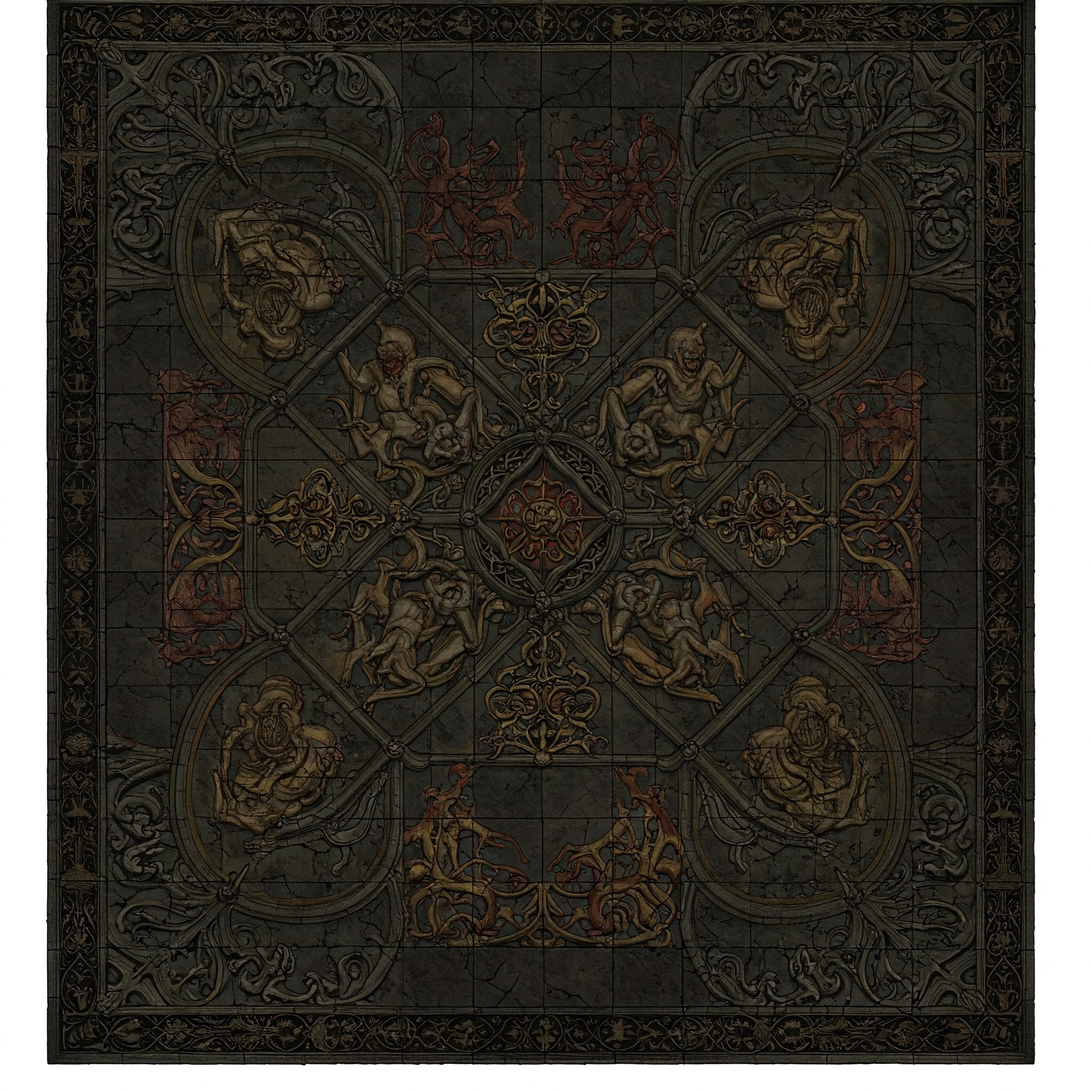
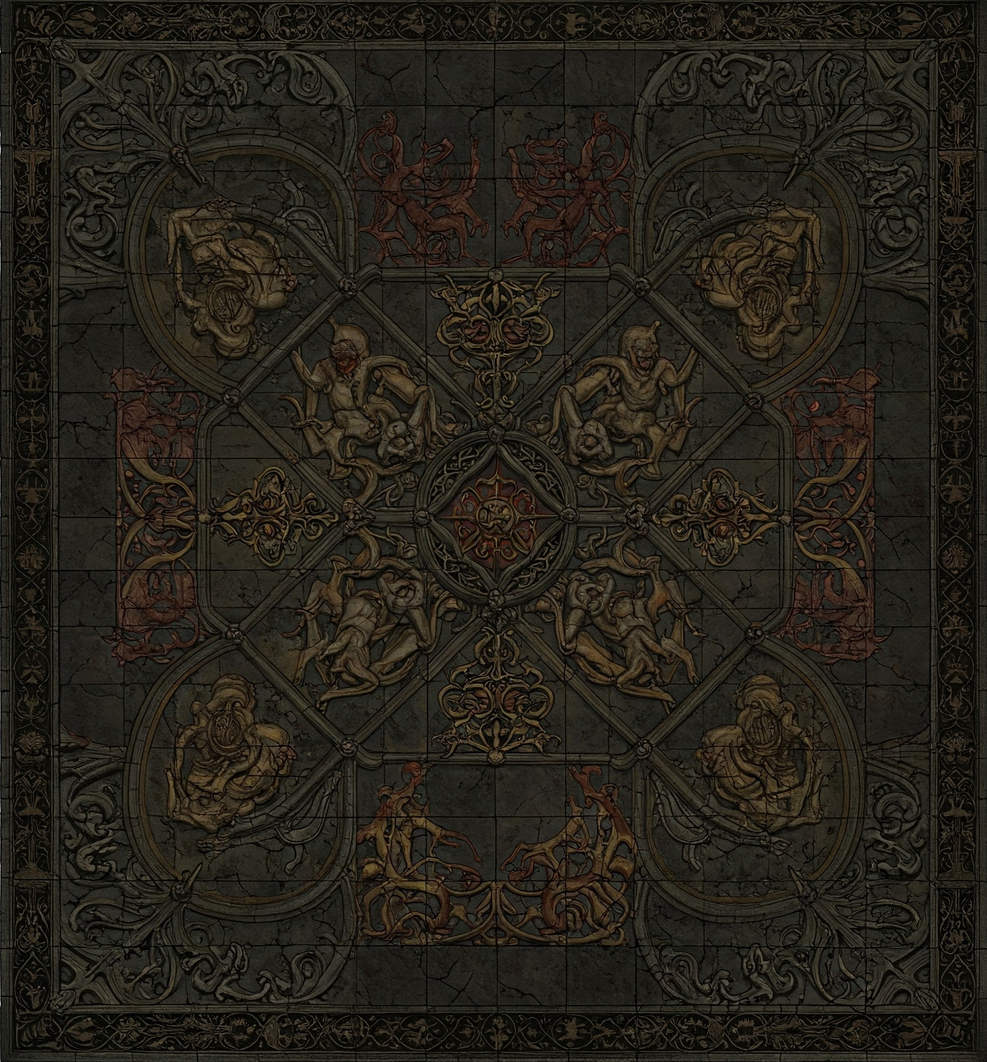
fix background image for room 5,6

diff --git a/Packages/Rooms/RoomParser.cs b/Packages/Rooms/RoomParser.cs
@@ -37,8 +37,26 @@ namespace Project.Rooms
                                       new Rectangle(x * gr.TileWidth,
                                         (y - 1) * gr.TileHeight, gr.TileWidth, gr.TileHeight));
                     break;
-                case "GreenBackGround":
-                    result = SolidBlockFactory.Instance.GreenBg();
+                case "room1":
+                    result = SolidBlockFactory.Instance.room1Background();
+                    break;
+                case "room2":
+                    result = SolidBlockFactory.Instance.room2Background();
+                    break;
+                case "room3":
+                    result = SolidBlockFactory.Instance.room3Background();
+                    break;
+                case "room4":
+                    result = SolidBlockFactory.Instance.room4Background();
+                    break;
+                case "room5":
+                    result = SolidBlockFactory.Instance.room5Background();
+                    break;
+                case "room6":
+                    result = SolidBlockFactory.Instance.room6Background();
+                    break;
+                case "room7":
+                    result = SolidBlockFactory.Instance.room7Background();
                     break;
                 case "bossBackground":
                     result = SolidBlockFactory.Instance.boosBackground();
@@ -94,8 +112,26 @@ namespace Project.Rooms
                         case "boss":
                             Background = AddBlockToRoom(x, y, gr, tileWidth, tileHeight, "bossBackground");
                             break;
-                        case "gr":
-                            Background = AddBlockToRoom(x, y, gr, tileWidth, tileHeight, "GreenBackGround");
+                        case "room1":
+                            Background = AddBlockToRoom(x, y, gr, tileWidth, tileHeight, "room1");
+                            break;
+                        case "room2":
+                            Background = AddBlockToRoom(x, y, gr, tileWidth, tileHeight, "room2");
+                            break;
+                        case "room3":
+                            Background = AddBlockToRoom(x, y, gr, tileWidth, tileHeight, "room3");
+                            break;
+                        case "room4":
+                            Background = AddBlockToRoom(x, y, gr, tileWidth, tileHeight, "room4");
+                            break;
+                        case "room5":
+                            Background = AddBlockToRoom(x, y, gr, tileWidth, tileHeight, "room5");
+                            break;
+                        case "room6":
+                            Background = AddBlockToRoom(x, y, gr, tileWidth, tileHeight, "room6");
+                            break;
+                        case "room7":
+                            Background = AddBlockToRoom(x, y, gr, tileWidth, tileHeight, "room7");
                             break;
                         case "bl":
 
@@ -105,77 +141,62 @@ namespace Project.Rooms
                             internalMap[x, y] = AddBlockToRoom(x, y, gr, tileWidth, tileHeight, "CreateWoodPlanks");
                             break;
                         case "dr":
-                            // internalMap[x, y] = AddBlockToRoom(x, y, gr, tileWidth, tileHeight, "GreenBackGround");
 
                             internalMap[x, y] = AddBlockToRoom(x, y, gr, tileWidth, tileHeight, "CreateDoor");
                             break;
                         case "pl":
-                            //  internalMap[x, y] = AddBlockToRoom(x, y, gr, tileWidth, tileHeight, "GreenBackGround");
                             playerSpriteLocation.X = x * gr.TileWidth;
                             playerSpriteLocation.Y = (y - 1) * gr.TileHeight;
                             break;
                         case "aq":
-                            //internalMap[x, y] = internalMap[x, y] = AddBlockToRoom(x, y, gr, tileWidth, tileHeight, "GreenBackGround");
 
                             enemyManager.AddEnemy(new Aquamentus(new Rectangle(x * gr.TileWidth, (y - 1) * gr.TileHeight, gr.TileWidth, gr.TileHeight)));
                             break;
                         case "rg":
-                            //  internalMap[x, y] = internalMap[x, y] = AddBlockToRoom(x, y, gr, tileWidth, tileHeight, "GreenBackGround");
 
                             enemyManager.AddEnemy(new RedGoriya(new Rectangle(x * gr.TileWidth, (y - 1) * gr.TileHeight, gr.TileWidth, gr.TileHeight)));
                             break;
                         case "st":
-                            // internalMap[x, y] = internalMap[x, y] = AddBlockToRoom(x, y, gr, tileWidth, tileHeight, "GreenBackGround");
 
                             enemyManager.AddEnemy(new Stalfos(new Rectangle(x * gr.TileWidth, (y - 1) * gr.TileHeight, gr.TileWidth, gr.TileHeight)));
                             break;
                         case "it":
-                            // internalMap[x, y] = internalMap[x, y] = AddBlockToRoom(x, y, gr, tileWidth, tileHeight, "GreenBackGround");
 
                             itemManager.addItem(new StationaryItem(new Rectangle(x * gr.TileWidth, (y - 1) * gr.TileHeight, gr.TileWidth, gr.TileHeight), 0, ItemFactory.Instance.CreateHeartSprite()));
                             break;
                         case "ar":
-                            // internalMap[x, y] = internalMap[x, y] = AddBlockToRoom(x, y, gr, tileWidth, tileHeight, "GreenBackGround");
 
                             itemManager.addItem(new StationaryItem(new Rectangle(x * gr.TileWidth, (y - 1) * gr.TileHeight, gr.TileWidth, gr.TileHeight), 0, ItemFactory.Instance.CreateArrowSprite()));
                             break;
                         case "sw":
-                            // internalMap[x, y] = internalMap[x, y] = AddBlockToRoom(x, y, gr, tileWidth, tileHeight, "GreenBackGround");
 
                             itemManager.addItem(new StationaryItem(new Rectangle(x * gr.TileWidth, (y - 1) * gr.TileHeight, gr.TileWidth, gr.TileHeight), 0, ItemFactory.Instance.CreateSwordSprite()));
                             break;
                         case "co":
-                            // internalMap[x, y] = internalMap[x, y] = AddBlockToRoom(x, y, gr, tileWidth, tileHeight, "GreenBackGround");
 
                             itemManager.addItem(new StationaryItem(new Rectangle(x * gr.TileWidth, (y - 1) * gr.TileHeight, gr.TileWidth, gr.TileHeight), 0, ItemFactory.Instance.CreateCoinSprite()));
                             break;
                         case "bm":
-                            // internalMap[x, y] = internalMap[x, y] = AddBlockToRoom(x, y, gr, tileWidth, tileHeight, "GreenBackGround");
 
                             itemManager.addItem(new StationaryItem(new Rectangle(x * gr.TileWidth, (y - 1) * gr.TileHeight, gr.TileWidth, gr.TileHeight), 0, ItemFactory.Instance.CreateBombSprite()));
                             break;
                         case "bmr":
-                            // internalMap[x, y] = internalMap[x, y] = AddBlockToRoom(x, y, gr, tileWidth, tileHeight, "GreenBackGround");
 
                             itemManager.addItem(new StationaryItem(new Rectangle(x * gr.TileWidth, (y - 1) * gr.TileHeight, gr.TileWidth, gr.TileHeight), 0, ItemFactory.Instance.CreateBoomerangSprite()));
                             break;
                         case "bw":
-                            //internalMap[x, y] = internalMap[x, y] = AddBlockToRoom(x, y, gr, tileWidth, tileHeight, "GreenBackGround");
 
                             itemManager.addItem(new StationaryItem(new Rectangle(x * gr.TileWidth, (y - 1) * gr.TileHeight, gr.TileWidth, gr.TileHeight), 0, ItemFactory.Instance.CreateBowSprite()));
                             break;
                         case "frb":
-                            //internalMap[x, y] = internalMap[x, y] = AddBlockToRoom(x, y, gr, tileWidth, tileHeight, "GreenBackGround");
 
                             itemManager.addItem(new StationaryItem(new Rectangle(x * gr.TileWidth, (y - 1) * gr.TileHeight, gr.TileWidth, gr.TileHeight), 0, ItemFactory.Instance.CreateFireballSprite()));
                             break;
                         case "ky":
-                            // internalMap[x, y] = internalMap[x, y] = AddBlockToRoom(x, y, gr, tileWidth, tileHeight, "GreenBackGround");
 
                             itemManager.addItem(new StationaryItem(new Rectangle(x * gr.TileWidth, (y - 1) * gr.TileHeight, gr.TileWidth, gr.TileHeight), 0, ItemFactory.Instance.CreateKeySprite()));
                             break;
                         default:
-                            // internalMap[x, y] = internalMap[x, y] = AddBlockToRoom(x, y, gr, tileWidth, tileHeight, "GreenBackGround");
 
                             break;
                     }

diff --git a/Packages/Factories/SolidBlockFactory.cs b/Packages/Factories/SolidBlockFactory.cs
@@ -80,37 +80,37 @@ namespace Project.Factories
            public IBlock room1Background()
         {
             return new BackgroundBlock(_room1Texture,
-                new Rectangle(0, 0, 580, 425), new Rectangle(64, 64, 832, 576));
+                new Rectangle(0, 0, 2048, 2048), new Rectangle(64, 64, 832, 576));
         }
            public IBlock room2Background()
         {
             return new BackgroundBlock(_room2Texture,
-                new Rectangle(0, 0, 580, 425), new Rectangle(64, 64, 832, 576));
+                new Rectangle(0, 0, 2048, 2048), new Rectangle(64, 64, 832, 576));
         }
            public IBlock room3Background()
         {
             return new BackgroundBlock(_room3Texture,
-                new Rectangle(0, 0, 580, 425), new Rectangle(64, 64, 832, 576));
+                new Rectangle(0, 0, 2048, 2048), new Rectangle(64, 64, 832, 576));
         }
            public IBlock room4Background()
         {
             return new BackgroundBlock(_room4Texture,
-                new Rectangle(0, 0, 580, 425), new Rectangle(64, 64, 832, 576));
+                new Rectangle(0, 0, 1663, 1726), new Rectangle(64, 64, 832, 576));
         }
            public IBlock room5Background()
         {
             return new BackgroundBlock(_room5Texture,
-                new Rectangle(0, 0, 580, 425), new Rectangle(64, 64, 832, 576));
+                new Rectangle(0, 0, 1852, 1993), new Rectangle(64, 64, 832, 576));
         }
            public IBlock room6Background()
         {
             return new BackgroundBlock(_room6Texture,
-                new Rectangle(0, 0, 580, 425), new Rectangle(64, 64, 832, 576));
+                new Rectangle(0, 0, 1824, 1883), new Rectangle(64, 64, 832, 576));
         }
            public IBlock room7Background()
         {
             return new BackgroundBlock(_room7Texture,
-                new Rectangle(0, 0, 580, 425), new Rectangle(64, 64, 832, 576));
+                new Rectangle(0, 0, 2048, 2048), new Rectangle(64, 64, 832, 576));
         }
            public IBlock room8Background()
         {
